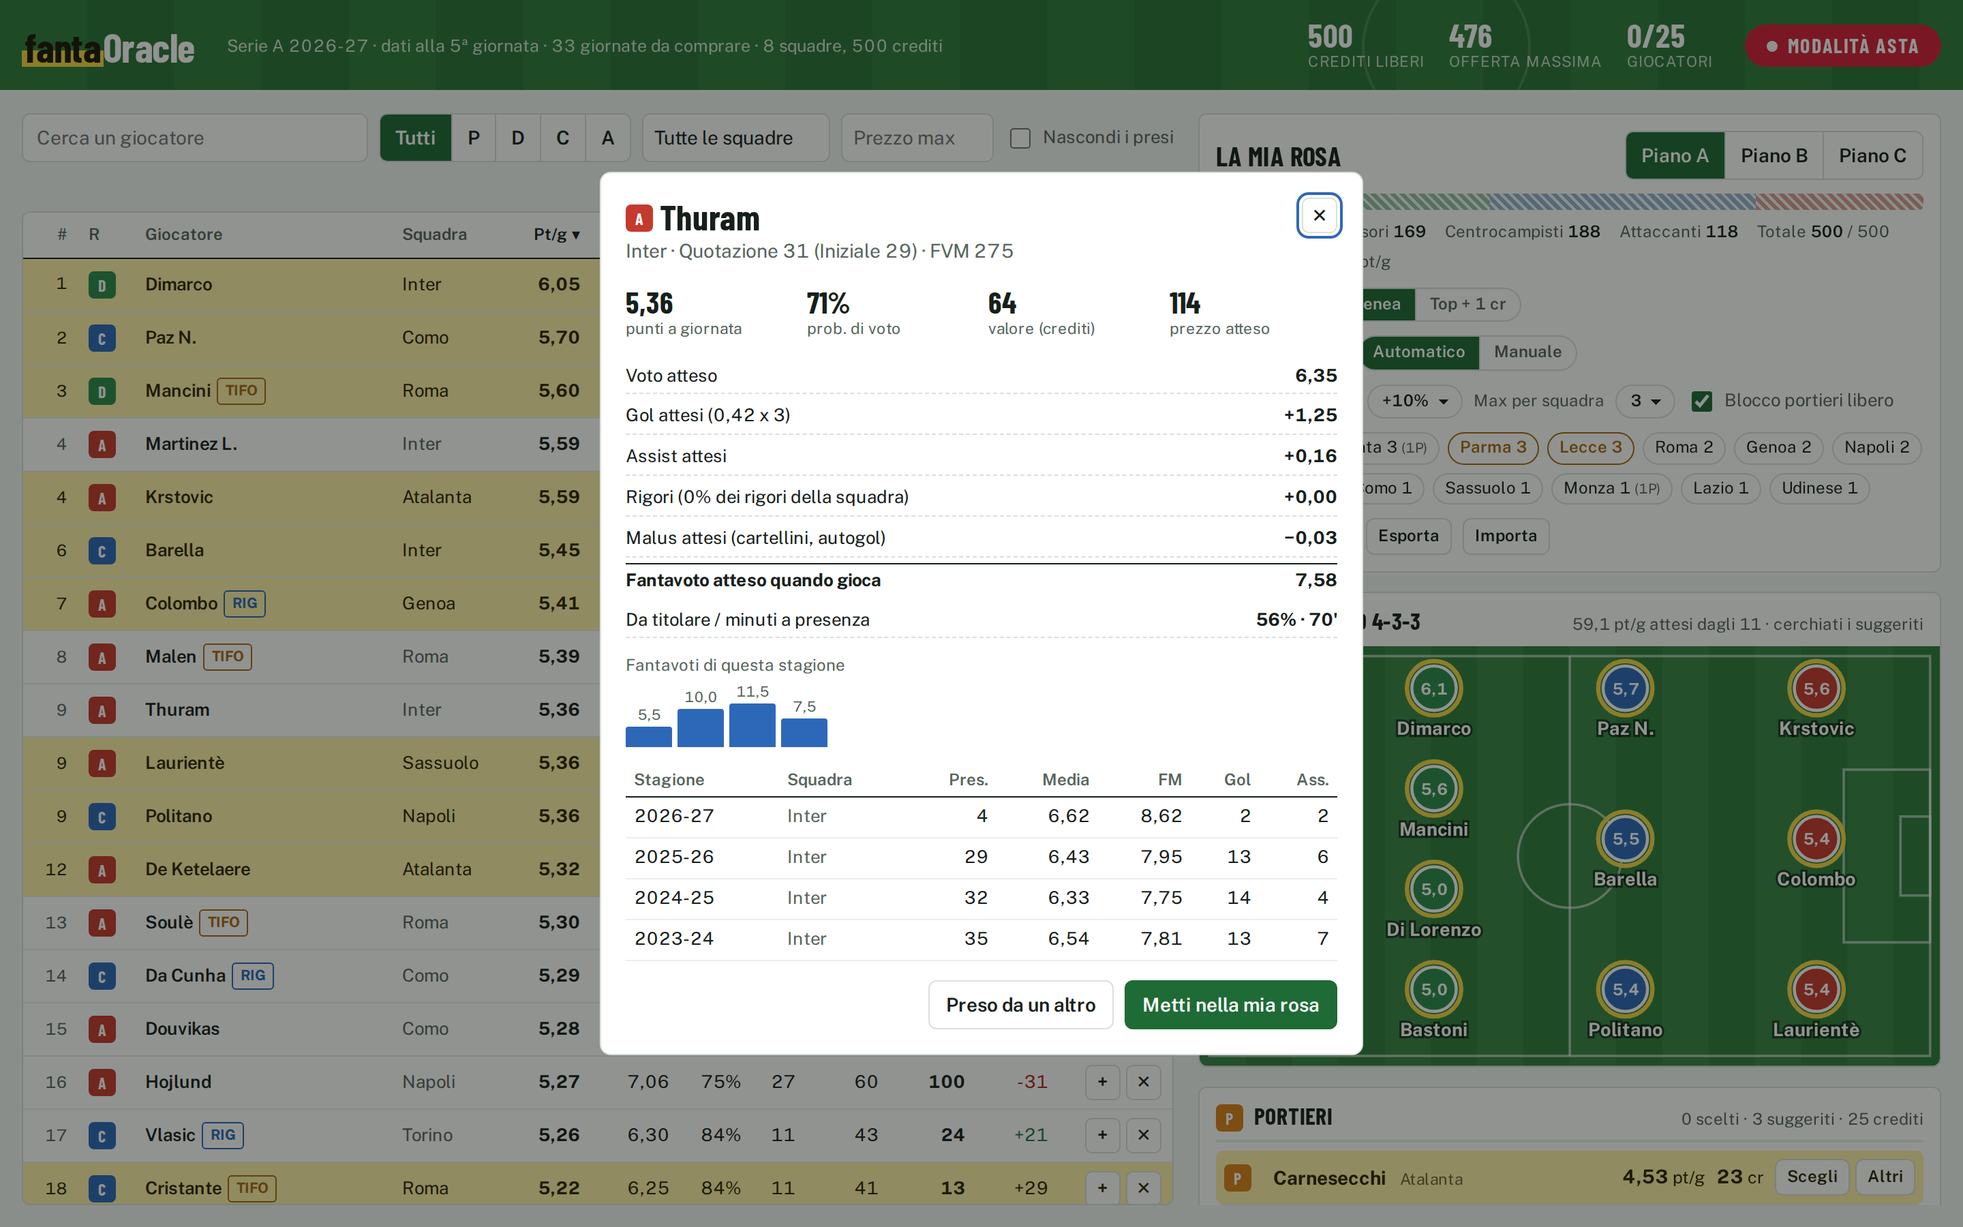
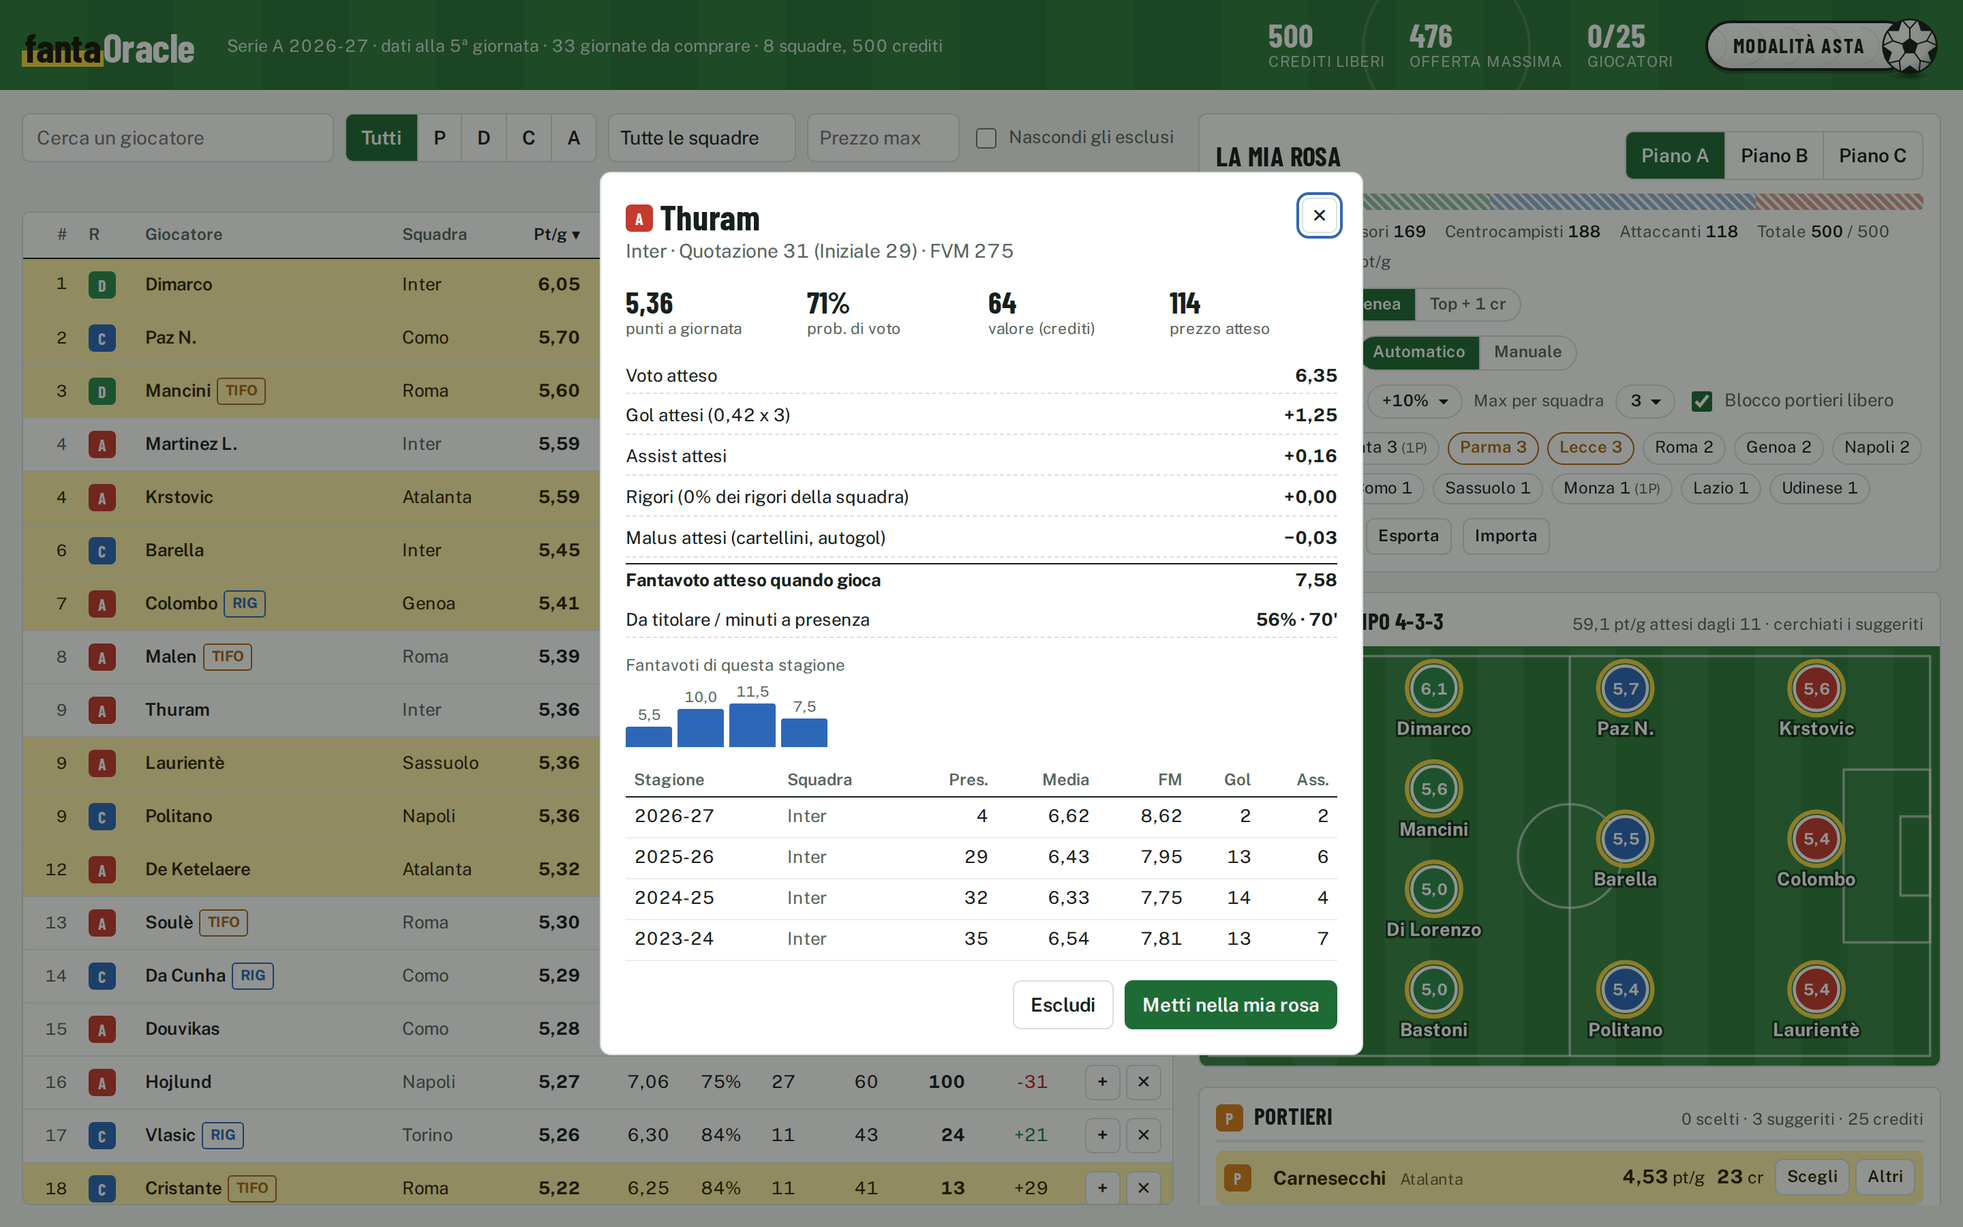
Pallone a destra che rotola verso sinistra, palleggio realistico, tendina animata
- Il pallone sta ora a destra del bottone "Modalita' asta" e al clic
  rotola verso sinistra sopra il bottone (in senso antiorario, senza
  strisciare), poi viene verso l'utente e apre il setup.
- Il palleggio a riposo non ruota piu' attorno a un perno: il pallone
  sale frenando e scende accelerando, si schiaccia a terra e rimbalza,
  fa un secondo rimbalzino e si ferma un attimo. Sotto c'e' un'ombra
  che si stringe e schiarisce quando sale.
- La formazione tipo si apre e si chiude con una tendina animata
  sull'altezza del campo (260 ms). Con "riduci movimento" niente
  animazioni.
- Schermate del README aggiornate al nuovo bottone.

Claude-Session: https://claude.ai/code/session_01Dx9VgmQHZPvkBVP3JswiRz

diff --git a/web/index.html b/web/index.html
@@ -244,16 +244,19 @@ details.help p { margin: 8px 0 0; color: var(--ink-2); max-width: 65ch; }
 .loading { padding: 40px 0; color: var(--ink-2); }
 
 /* --- modalita' asta --- */
-/* il bottone e' un pallone: pill bianca con le cuciture, e un pallone vero appoggiato a sinistra */
-.asta-btn { position: relative; margin-left: 20px; border: 2px solid #16201a; border-radius: 999px; padding: 9px 18px 9px 30px;
+/* il bottone e' un pallone: pill bianca con le cuciture, e un pallone vero appoggiato a destra */
+.asta-btn { position: relative; margin-right: 22px; border: 2px solid #16201a; border-radius: 999px; padding: 9px 32px 9px 18px;
   color: #16201a; font: 700 15px/1 var(--font-display); letter-spacing: 0.08em; text-transform: uppercase; cursor: pointer;
   background:
     radial-gradient(circle at 0 50%, transparent 0 13px, rgb(22 32 26 / 0.07) 13px 14px, transparent 14px) 0 0 / 28px 100% repeat-x,
     linear-gradient(180deg, #ffffff 0%, #f1f3f0 70%, #dfe4df 100%);
   box-shadow: 0 2px 0 rgb(0 0 0 / 0.25); }
 .asta-btn:hover { background-color: #ffffff; transform: translateY(-1px); }
-.asta-btn .pallone { position: absolute; left: -22px; top: 50%; width: 42px; height: 42px; margin-top: -21px;
-  filter: drop-shadow(0 3px 2px rgb(0 0 0 / 0.35)); pointer-events: none; }
+.asta-btn .pallone { position: absolute; right: -22px; top: 50%; width: 42px; height: 42px; margin-top: -21px;
+  transform-origin: 50% 100%; pointer-events: none; }
+/* ombra a terra sotto il pallone: si stringe e schiarisce quando sale */
+.asta-btn .ombra { position: absolute; right: -16px; top: 50%; width: 30px; height: 7px; margin-top: 18px; border-radius: 50%;
+  background: radial-gradient(closest-side, rgb(0 0 0 / 0.45), transparent); pointer-events: none; }
 .asta-btn .pallone svg, .pallone-volo svg { display: block; width: 100%; height: 100%; }
 .pallone-volo { position: fixed; z-index: 60; pointer-events: none; filter: drop-shadow(0 6px 6px rgb(0 0 0 / 0.35)); }
 .live { display: inline-flex; align-items: center; gap: 8px; font: 700 15px/1 var(--font-display); letter-spacing: 0.1em; text-transform: uppercase; color: var(--live); }
@@ -269,9 +272,24 @@ details.help p { margin: 8px 0 0; color: var(--ink-2); max-width: 65ch; }
 @media (prefers-reduced-motion: no-preference) {
   .asta-btn.pulse { animation: pulsa 2s ease-in-out infinite; }
   @keyframes pulsa { 0%, 100% { box-shadow: 0 2px 0 rgb(0 0 0 / 0.25), 0 0 0 0 rgb(255 255 255 / 0.6); } 60% { box-shadow: 0 2px 0 rgb(0 0 0 / 0.25), 0 0 0 11px rgb(255 255 255 / 0); } }
-  /* il pallone palleggia piano sul posto */
-  .asta-btn.pulse .pallone { animation: palleggio 2s ease-in-out infinite; }
-  @keyframes palleggio { 0%, 100% { transform: translateY(0) rotate(0); } 50% { transform: translateY(-3px) rotate(-12deg); } }
+  /* palleggio: sale frenando, scende accelerando, si schiaccia a terra e rimbalza; poi una pausa */
+  .asta-btn.pulse .pallone { animation: palleggio 1.6s infinite; }
+  .asta-btn.pulse .ombra { animation: ombra 1.6s infinite; }
+  @keyframes palleggio {
+    0%   { transform: translateY(0) scale(1.12, 0.86); animation-timing-function: ease-out; }
+    8%   { transform: translateY(0) scale(0.95, 1.06); animation-timing-function: cubic-bezier(.2,.6,.4,1); }
+    36%  { transform: translateY(-13px) scale(1, 1); animation-timing-function: cubic-bezier(.6,0,.8,.4); }
+    62%  { transform: translateY(0) scale(0.97, 1.04); animation-timing-function: ease-out; }
+    67%  { transform: translateY(0) scale(1.1, 0.88); animation-timing-function: ease-out; }
+    75%  { transform: translateY(-3px) scale(1, 1); animation-timing-function: ease-in; }
+    83%, 100% { transform: translateY(0) scale(1.12, 0.86); }
+  }
+  @keyframes ombra {
+    0%, 62%, 67%, 83%, 100% { transform: scale(1); opacity: 1; }
+    8% { transform: scale(0.95); opacity: 0.9; }
+    36% { transform: scale(0.55); opacity: 0.4; }
+    75% { transform: scale(0.85); opacity: 0.8; }
+  }
   .live .dot { animation: batte 1.2s ease-in-out infinite; }
   @keyframes batte { 50% { opacity: 0.25; } }
   :root[data-asta] .top.entra::after { content: ""; position: absolute; left: 0; bottom: -3px; height: 3px; width: 100%; background: var(--stage-fg); transform-origin: left; animation: accende 0.9s ease-out forwards; }
@@ -1086,7 +1104,7 @@ function renderControlloAsta() {
     root.removeAttribute("data-asta");
     $("#tab-asta").hidden = true;
     if ($("#main").dataset.view === "asta") vista("listone");
-    $("#asta-ctl").innerHTML = `<button class="asta-btn pulse" id="asta-avvia"><span class="pallone">${PALLONE}</span>${S.asta ? "Riprendi l'asta" : "Modalità asta"}</button>`;
+    $("#asta-ctl").innerHTML = `<button class="asta-btn pulse" id="asta-avvia">${S.asta ? "Riprendi l'asta" : "Modalità asta"}<span class="ombra"></span><span class="pallone">${PALLONE}</span></button>`;
   }
 }
 
@@ -1258,6 +1276,7 @@ function calcioDInizio(btn) {
   if (inVolo) return;
   if (!orig || !window.matchMedia("(prefers-reduced-motion: no-preference)").matches || !Element.prototype.animate) return dialogoAvvio();
   inVolo = true;
+  btn.classList.remove("pulse");                                 // misura il pallone fermo, non a meta' palleggio
   const b = orig.getBoundingClientRect(), k = btn.getBoundingClientRect();
   const volo = document.createElement("div");
   volo.className = "pallone-volo";
@@ -1265,28 +1284,29 @@ function calcioDInizio(btn) {
   Object.assign(volo.style, { left: b.left + "px", top: b.top + "px", width: b.width + "px", height: b.height + "px" });
   document.body.appendChild(volo);
   orig.style.opacity = "0";           // non visibility: il clipPath del pallone deve restare attivo
-  btn.classList.remove("pulse");
+  btn.querySelector(".ombra").style.opacity = "0";
 
   const d = b.width;
   // rotola sopra il bottone, a meta' fra il bordo alto e il testo, senza uscire dallo schermo
   const sopra = Math.max(k.top - b.top - d * 0.3, 2 - b.top);
-  const corsa = k.right - b.left - d * 0.85;                     // fino alla fine del bottone
-  const giri = (corsa / (Math.PI * d)) * 360;                    // rotola senza strisciare
+  const corsa = k.left - b.left + d * 0.1;                       // verso sinistra, fino all'inizio del bottone (negativa)
+  const giri = (corsa / (Math.PI * d)) * 360;                    // rotola senza strisciare: verso sinistra gira in senso antiorario
   const cx = innerWidth / 2 - (b.left + d / 2), cy = innerHeight / 2 - (b.top + d / 2);
   const zoom = Math.max(innerWidth, innerHeight) / d * 1.4;
   const anim = volo.animate([
     { transform: "translate(0,0) rotate(0deg) scale(1)", offset: 0, easing: "cubic-bezier(.3,0,.6,1)" },
-    { transform: `translate(${d * 0.35}px,${sopra}px) rotate(${giri * 0.12}deg) scale(1)`, offset: 0.16, easing: "linear" },
+    { transform: `translate(${-d * 0.35}px,${sopra}px) rotate(${giri * 0.12}deg) scale(1)`, offset: 0.16, easing: "linear" },
     { transform: `translate(${corsa}px,${sopra}px) rotate(${giri}deg) scale(1)`, offset: 0.55, easing: "cubic-bezier(.2,0,.9,.6)" },
-    { transform: `translate(${corsa + 10}px,${sopra + 16}px) rotate(${giri + 40}deg) scale(1.3)`, offset: 0.64, easing: "cubic-bezier(.5,0,1,1)" },
-    { transform: `translate(${cx * 0.9}px,${cy * 0.9}px) rotate(${giri + 250}deg) scale(${zoom * 0.45})`, offset: 0.88, opacity: 1 },
-    { transform: `translate(${cx}px,${cy}px) rotate(${giri + 300}deg) scale(${zoom})`, offset: 1, opacity: 0 },
+    { transform: `translate(${corsa - 10}px,${sopra + 16}px) rotate(${giri - 40}deg) scale(1.3)`, offset: 0.64, easing: "cubic-bezier(.5,0,1,1)" },
+    { transform: `translate(${cx * 0.9}px,${cy * 0.9}px) rotate(${giri - 250}deg) scale(${zoom * 0.45})`, offset: 0.88, opacity: 1 },
+    { transform: `translate(${cx}px,${cy}px) rotate(${giri - 300}deg) scale(${zoom})`, offset: 1, opacity: 0 },
   ], { duration: 1500, fill: "forwards" });
   // il setup si apre mentre il pallone arriva addosso, prima che sparisca del tutto
   setTimeout(() => dialogoAvvio(), 1250);
   anim.finished.finally(() => {
     volo.remove();
     orig.style.opacity = "";
+    btn.querySelector(".ombra").style.opacity = "";
     btn.classList.add("pulse");
     inVolo = false;
   });
@@ -1403,6 +1423,21 @@ function risultatiRicerca() {
 }
 
 // --- eventi -----------------------------------------------------------------------------
+// apertura e chiusura della formazione tipo con una tendina animata sull'altezza del campo
+document.addEventListener("click", (e) => {
+  const s = e.target.closest("#campo > summary");
+  if (!s || !Element.prototype.animate || !matchMedia("(prefers-reduced-motion: no-preference)").matches) return;
+  const det = s.parentElement, campo = det.querySelector(".campo");
+  if (det.dataset.anim) { e.preventDefault(); return; }
+  e.preventDefault();
+  det.dataset.anim = "1";
+  const apri = !det.open;
+  if (apri) det.open = true;
+  const h = campo.getBoundingClientRect().height;
+  const fotogrammi = [{ height: "0px", opacity: 0, transform: "translateY(-8px)" }, { height: h + "px", opacity: 1, transform: "none" }];
+  const a = campo.animate(apri ? fotogrammi : fotogrammi.slice().reverse(), { duration: 260, easing: "cubic-bezier(.3,.7,.3,1)" });
+  a.finished.then(() => { if (!apri) det.open = false; delete det.dataset.anim; });
+});
 // formazione tipo aperta o chiusa: la scelta resta fra un ricalcolo e l'altro
 document.addEventListener("toggle", (e) => {
   if (e.target.id === "campo") { S.campoChiuso = !e.target.open; salva(); }

diff --git a/web/tool.html b/web/tool.html
@@ -237,16 +237,19 @@ details.help p { margin: 8px 0 0; color: var(--ink-2); max-width: 65ch; }
 .loading { padding: 40px 0; color: var(--ink-2); }
 
 /* --- modalita' asta --- */
-/* il bottone e' un pallone: pill bianca con le cuciture, e un pallone vero appoggiato a sinistra */
-.asta-btn { position: relative; margin-left: 20px; border: 2px solid #16201a; border-radius: 999px; padding: 9px 18px 9px 30px;
+/* il bottone e' un pallone: pill bianca con le cuciture, e un pallone vero appoggiato a destra */
+.asta-btn { position: relative; margin-right: 22px; border: 2px solid #16201a; border-radius: 999px; padding: 9px 32px 9px 18px;
   color: #16201a; font: 700 15px/1 var(--font-display); letter-spacing: 0.08em; text-transform: uppercase; cursor: pointer;
   background:
     radial-gradient(circle at 0 50%, transparent 0 13px, rgb(22 32 26 / 0.07) 13px 14px, transparent 14px) 0 0 / 28px 100% repeat-x,
     linear-gradient(180deg, #ffffff 0%, #f1f3f0 70%, #dfe4df 100%);
   box-shadow: 0 2px 0 rgb(0 0 0 / 0.25); }
 .asta-btn:hover { background-color: #ffffff; transform: translateY(-1px); }
-.asta-btn .pallone { position: absolute; left: -22px; top: 50%; width: 42px; height: 42px; margin-top: -21px;
-  filter: drop-shadow(0 3px 2px rgb(0 0 0 / 0.35)); pointer-events: none; }
+.asta-btn .pallone { position: absolute; right: -22px; top: 50%; width: 42px; height: 42px; margin-top: -21px;
+  transform-origin: 50% 100%; pointer-events: none; }
+/* ombra a terra sotto il pallone: si stringe e schiarisce quando sale */
+.asta-btn .ombra { position: absolute; right: -16px; top: 50%; width: 30px; height: 7px; margin-top: 18px; border-radius: 50%;
+  background: radial-gradient(closest-side, rgb(0 0 0 / 0.45), transparent); pointer-events: none; }
 .asta-btn .pallone svg, .pallone-volo svg { display: block; width: 100%; height: 100%; }
 .pallone-volo { position: fixed; z-index: 60; pointer-events: none; filter: drop-shadow(0 6px 6px rgb(0 0 0 / 0.35)); }
 .live { display: inline-flex; align-items: center; gap: 8px; font: 700 15px/1 var(--font-display); letter-spacing: 0.1em; text-transform: uppercase; color: var(--live); }
@@ -262,9 +265,24 @@ details.help p { margin: 8px 0 0; color: var(--ink-2); max-width: 65ch; }
 @media (prefers-reduced-motion: no-preference) {
   .asta-btn.pulse { animation: pulsa 2s ease-in-out infinite; }
   @keyframes pulsa { 0%, 100% { box-shadow: 0 2px 0 rgb(0 0 0 / 0.25), 0 0 0 0 rgb(255 255 255 / 0.6); } 60% { box-shadow: 0 2px 0 rgb(0 0 0 / 0.25), 0 0 0 11px rgb(255 255 255 / 0); } }
-  /* il pallone palleggia piano sul posto */
-  .asta-btn.pulse .pallone { animation: palleggio 2s ease-in-out infinite; }
-  @keyframes palleggio { 0%, 100% { transform: translateY(0) rotate(0); } 50% { transform: translateY(-3px) rotate(-12deg); } }
+  /* palleggio: sale frenando, scende accelerando, si schiaccia a terra e rimbalza; poi una pausa */
+  .asta-btn.pulse .pallone { animation: palleggio 1.6s infinite; }
+  .asta-btn.pulse .ombra { animation: ombra 1.6s infinite; }
+  @keyframes palleggio {
+    0%   { transform: translateY(0) scale(1.12, 0.86); animation-timing-function: ease-out; }
+    8%   { transform: translateY(0) scale(0.95, 1.06); animation-timing-function: cubic-bezier(.2,.6,.4,1); }
+    36%  { transform: translateY(-13px) scale(1, 1); animation-timing-function: cubic-bezier(.6,0,.8,.4); }
+    62%  { transform: translateY(0) scale(0.97, 1.04); animation-timing-function: ease-out; }
+    67%  { transform: translateY(0) scale(1.1, 0.88); animation-timing-function: ease-out; }
+    75%  { transform: translateY(-3px) scale(1, 1); animation-timing-function: ease-in; }
+    83%, 100% { transform: translateY(0) scale(1.12, 0.86); }
+  }
+  @keyframes ombra {
+    0%, 62%, 67%, 83%, 100% { transform: scale(1); opacity: 1; }
+    8% { transform: scale(0.95); opacity: 0.9; }
+    36% { transform: scale(0.55); opacity: 0.4; }
+    75% { transform: scale(0.85); opacity: 0.8; }
+  }
   .live .dot { animation: batte 1.2s ease-in-out infinite; }
   @keyframes batte { 50% { opacity: 0.25; } }
   :root[data-asta] .top.entra::after { content: ""; position: absolute; left: 0; bottom: -3px; height: 3px; width: 100%; background: var(--stage-fg); transform-origin: left; animation: accende 0.9s ease-out forwards; }
@@ -1079,7 +1097,7 @@ function renderControlloAsta() {
     root.removeAttribute("data-asta");
     $("#tab-asta").hidden = true;
     if ($("#main").dataset.view === "asta") vista("listone");
-    $("#asta-ctl").innerHTML = `<button class="asta-btn pulse" id="asta-avvia"><span class="pallone">${PALLONE}</span>${S.asta ? "Riprendi l'asta" : "Modalità asta"}</button>`;
+    $("#asta-ctl").innerHTML = `<button class="asta-btn pulse" id="asta-avvia">${S.asta ? "Riprendi l'asta" : "Modalità asta"}<span class="ombra"></span><span class="pallone">${PALLONE}</span></button>`;
   }
 }
 
@@ -1251,6 +1269,7 @@ function calcioDInizio(btn) {
   if (inVolo) return;
   if (!orig || !window.matchMedia("(prefers-reduced-motion: no-preference)").matches || !Element.prototype.animate) return dialogoAvvio();
   inVolo = true;
+  btn.classList.remove("pulse");                                 // misura il pallone fermo, non a meta' palleggio
   const b = orig.getBoundingClientRect(), k = btn.getBoundingClientRect();
   const volo = document.createElement("div");
   volo.className = "pallone-volo";
@@ -1258,28 +1277,29 @@ function calcioDInizio(btn) {
   Object.assign(volo.style, { left: b.left + "px", top: b.top + "px", width: b.width + "px", height: b.height + "px" });
   document.body.appendChild(volo);
   orig.style.opacity = "0";           // non visibility: il clipPath del pallone deve restare attivo
-  btn.classList.remove("pulse");
+  btn.querySelector(".ombra").style.opacity = "0";
 
   const d = b.width;
   // rotola sopra il bottone, a meta' fra il bordo alto e il testo, senza uscire dallo schermo
   const sopra = Math.max(k.top - b.top - d * 0.3, 2 - b.top);
-  const corsa = k.right - b.left - d * 0.85;                     // fino alla fine del bottone
-  const giri = (corsa / (Math.PI * d)) * 360;                    // rotola senza strisciare
+  const corsa = k.left - b.left + d * 0.1;                       // verso sinistra, fino all'inizio del bottone (negativa)
+  const giri = (corsa / (Math.PI * d)) * 360;                    // rotola senza strisciare: verso sinistra gira in senso antiorario
   const cx = innerWidth / 2 - (b.left + d / 2), cy = innerHeight / 2 - (b.top + d / 2);
   const zoom = Math.max(innerWidth, innerHeight) / d * 1.4;
   const anim = volo.animate([
     { transform: "translate(0,0) rotate(0deg) scale(1)", offset: 0, easing: "cubic-bezier(.3,0,.6,1)" },
-    { transform: `translate(${d * 0.35}px,${sopra}px) rotate(${giri * 0.12}deg) scale(1)`, offset: 0.16, easing: "linear" },
+    { transform: `translate(${-d * 0.35}px,${sopra}px) rotate(${giri * 0.12}deg) scale(1)`, offset: 0.16, easing: "linear" },
     { transform: `translate(${corsa}px,${sopra}px) rotate(${giri}deg) scale(1)`, offset: 0.55, easing: "cubic-bezier(.2,0,.9,.6)" },
-    { transform: `translate(${corsa + 10}px,${sopra + 16}px) rotate(${giri + 40}deg) scale(1.3)`, offset: 0.64, easing: "cubic-bezier(.5,0,1,1)" },
-    { transform: `translate(${cx * 0.9}px,${cy * 0.9}px) rotate(${giri + 250}deg) scale(${zoom * 0.45})`, offset: 0.88, opacity: 1 },
-    { transform: `translate(${cx}px,${cy}px) rotate(${giri + 300}deg) scale(${zoom})`, offset: 1, opacity: 0 },
+    { transform: `translate(${corsa - 10}px,${sopra + 16}px) rotate(${giri - 40}deg) scale(1.3)`, offset: 0.64, easing: "cubic-bezier(.5,0,1,1)" },
+    { transform: `translate(${cx * 0.9}px,${cy * 0.9}px) rotate(${giri - 250}deg) scale(${zoom * 0.45})`, offset: 0.88, opacity: 1 },
+    { transform: `translate(${cx}px,${cy}px) rotate(${giri - 300}deg) scale(${zoom})`, offset: 1, opacity: 0 },
   ], { duration: 1500, fill: "forwards" });
   // il setup si apre mentre il pallone arriva addosso, prima che sparisca del tutto
   setTimeout(() => dialogoAvvio(), 1250);
   anim.finished.finally(() => {
     volo.remove();
     orig.style.opacity = "";
+    btn.querySelector(".ombra").style.opacity = "";
     btn.classList.add("pulse");
     inVolo = false;
   });
@@ -1396,6 +1416,21 @@ function risultatiRicerca() {
 }
 
 // --- eventi -----------------------------------------------------------------------------
+// apertura e chiusura della formazione tipo con una tendina animata sull'altezza del campo
+document.addEventListener("click", (e) => {
+  const s = e.target.closest("#campo > summary");
+  if (!s || !Element.prototype.animate || !matchMedia("(prefers-reduced-motion: no-preference)").matches) return;
+  const det = s.parentElement, campo = det.querySelector(".campo");
+  if (det.dataset.anim) { e.preventDefault(); return; }
+  e.preventDefault();
+  det.dataset.anim = "1";
+  const apri = !det.open;
+  if (apri) det.open = true;
+  const h = campo.getBoundingClientRect().height;
+  const fotogrammi = [{ height: "0px", opacity: 0, transform: "translateY(-8px)" }, { height: h + "px", opacity: 1, transform: "none" }];
+  const a = campo.animate(apri ? fotogrammi : fotogrammi.slice().reverse(), { duration: 260, easing: "cubic-bezier(.3,.7,.3,1)" });
+  a.finished.then(() => { if (!apri) det.open = false; delete det.dataset.anim; });
+});
 // formazione tipo aperta o chiusa: la scelta resta fra un ricalcolo e l'altro
 document.addEventListener("toggle", (e) => {
   if (e.target.id === "campo") { S.campoChiuso = !e.target.open; salva(); }
